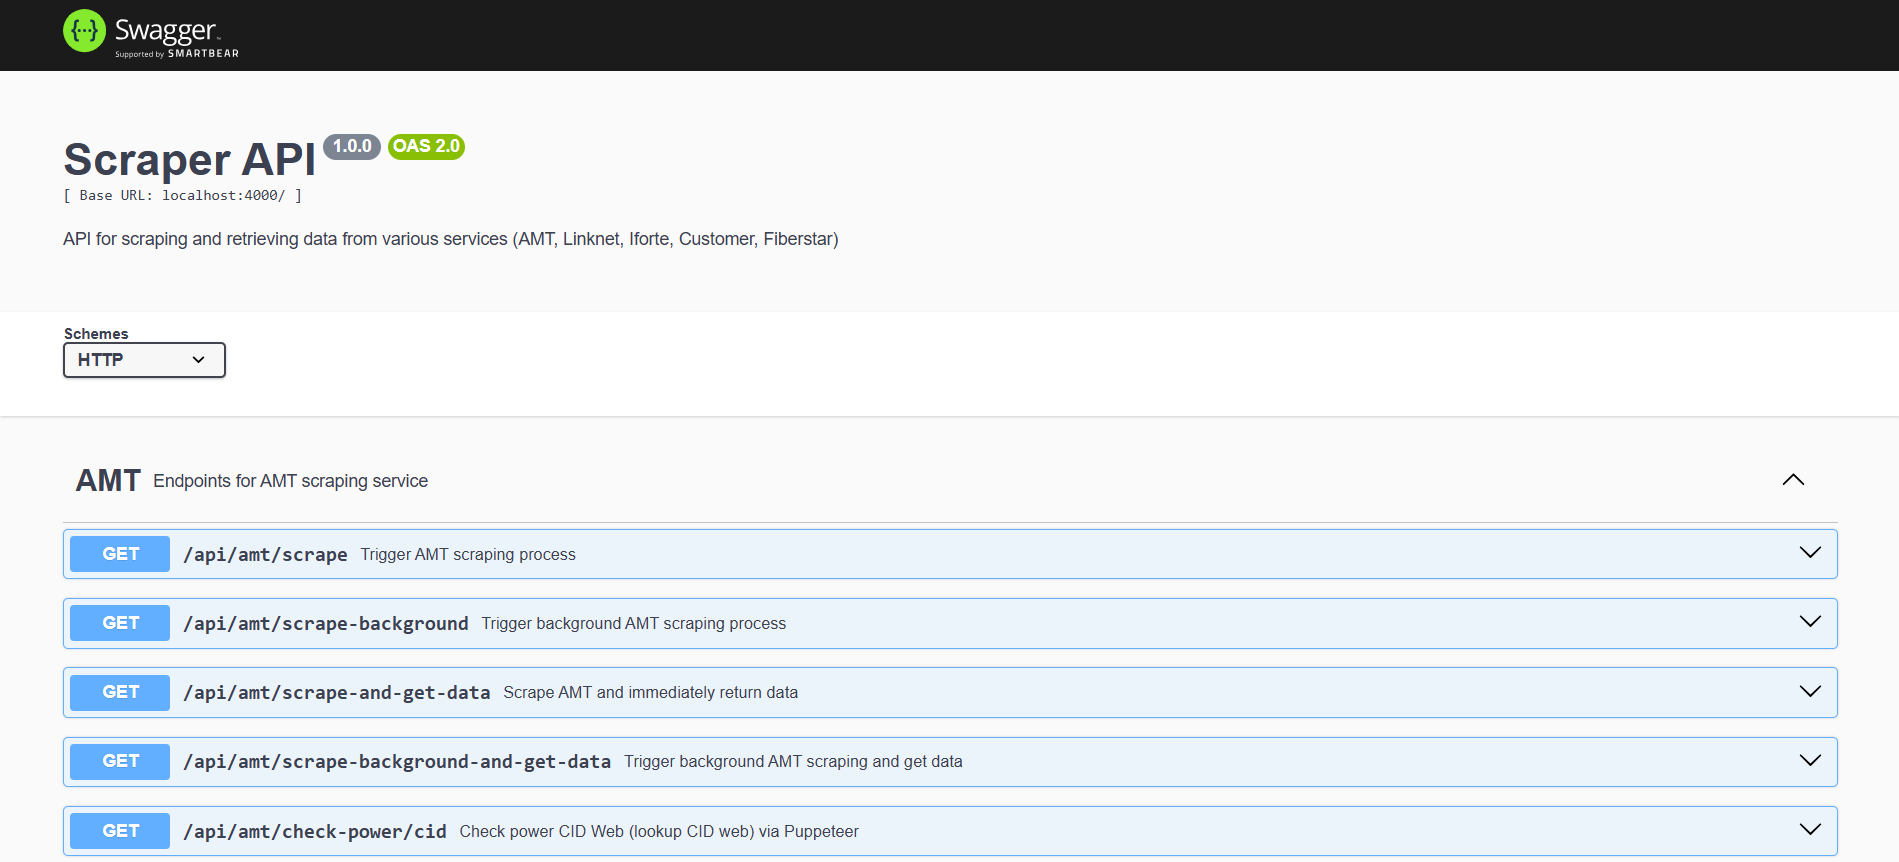
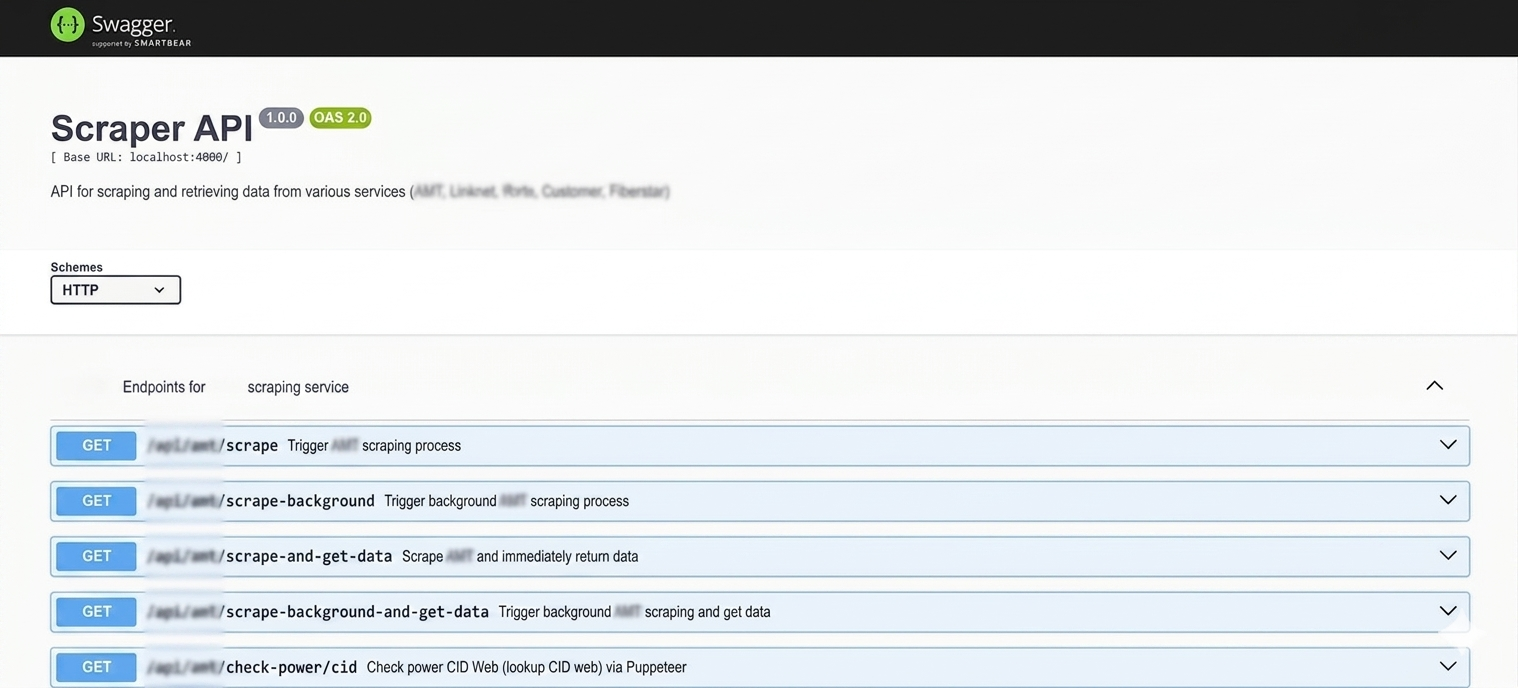
update perubahan color pada slider card dan di detail modal card

diff --git a/index.html b/index.html
@@ -783,7 +783,10 @@
         <!-- Portfolio Image Lightbox -->
         <div id="porto-image-lightbox" class="porto-image-lightbox" style="display:none;">
             <button class="porto-image-lightbox-close" id="porto-image-lightbox-close">✕</button>
+            <button class="porto-lb-nav porto-lb-prev" id="porto-lb-prev">&#8249;</button>
             <img id="porto-image-lightbox-img" src="" alt="Portfolio Full Image">
+            <button class="porto-lb-nav porto-lb-next" id="porto-lb-next">&#8250;</button>
+            <span class="porto-lb-counter" id="porto-lb-counter"></span>
         </div>
         <!-- Portfolio Image Lightbox End -->
 
@@ -856,11 +859,21 @@
     
     <!-- Portfolio Cards: Tabs, Auto-Slider, Modal -->
     <script>
+        // scroll to top on refresh
+        if (history.scrollRestoration) {
+            history.scrollRestoration = 'manual';
+        }
+        window.addEventListener('load', function () {
+            window.scrollTo(0, 0);
+        });
+        
         (function () {
             // === MODAL ===
             var modalIdx = 0;
             var modalTotal = 0;
             var modalTimer = null;
+            var lbImages = [];
+            var lbIdx = 0;
             var lightbox = document.getElementById('porto-image-lightbox');
             var lightboxImg = document.getElementById('porto-image-lightbox-img');
             var SLIDE_MS = 3000;
@@ -1011,6 +1024,7 @@
 
                 modalIdx = 0;
                 modalTotal = p.slides.length;
+                lbImages = [];
 
                 var slidesWrap = document.getElementById('porto-modal-slides');
                 slidesWrap.innerHTML = '';
@@ -1020,6 +1034,7 @@
                     if (s.image) {
                         div.classList.add('porto-slide-has-image');
                         div.innerHTML = '<img src="' + s.image + '" alt="' + (s.text || p.title) + '" class="porto-slide-image">';
+                        lbImages.push({ src: s.image, alt: s.text || p.title });
                     } else {
                         div.style.background = s.bg;
                         div.innerHTML = '<i class="bi bi-image porto-slide-icon" style="font-size:3rem;color:rgba(255,255,255,0.2);margin-bottom:0.6rem;"></i><span class="porto-slide-label" style="color:rgba(255,255,255,0.45);font-size:13px;text-align:center;padding:0 1rem;">' + s.text + '</span>';
@@ -1078,10 +1093,24 @@
                 closeLightbox();
             }
 
-            function openLightbox(src, alt) {
-                if (!src) return;
-                lightboxImg.src = src;
-                lightboxImg.alt = alt || 'Portfolio Full Image';
+            function goToLbSlide(next) {
+                if (!lbImages.length) return;
+                lbIdx = (next + lbImages.length) % lbImages.length;
+                lightboxImg.src = lbImages[lbIdx].src;
+                lightboxImg.alt = lbImages[lbIdx].alt;
+                document.getElementById('porto-lb-counter').textContent = (lbIdx + 1) + '/' + lbImages.length;
+            }
+
+            function openLightbox(startSrc) {
+                if (!lbImages.length) return;
+                var idx = lbImages.findIndex(function (img) { return img.src === startSrc; });
+                lbIdx = idx >= 0 ? idx : 0;
+                lightboxImg.src = lbImages[lbIdx].src;
+                lightboxImg.alt = lbImages[lbIdx].alt;
+                var showNav = lbImages.length > 1;
+                document.getElementById('porto-lb-prev').style.display = showNav ? 'flex' : 'none';
+                document.getElementById('porto-lb-next').style.display = showNav ? 'flex' : 'none';
+                document.getElementById('porto-lb-counter').textContent = showNav ? ((lbIdx + 1) + '/' + lbImages.length) : '';
                 lightbox.style.display = 'flex';
             }
 
@@ -1115,8 +1144,18 @@
             document.getElementById('porto-modal-slides').addEventListener('click', function (e) {
                 var target = e.target;
                 if (target.classList.contains('porto-slide-image')) {
-                    openLightbox(target.getAttribute('src'), target.getAttribute('alt'));
+                    openLightbox(target.getAttribute('src'));
                 }
+            });
+
+            document.getElementById('porto-lb-prev').addEventListener('click', function (e) {
+                e.stopPropagation();
+                goToLbSlide(lbIdx - 1);
+            });
+
+            document.getElementById('porto-lb-next').addEventListener('click', function (e) {
+                e.stopPropagation();
+                goToLbSlide(lbIdx + 1);
             });
 
             document.getElementById('porto-image-lightbox-close').addEventListener('click', function (e) {
@@ -1149,12 +1188,13 @@
             });
 
             document.addEventListener('keydown', function (e) {
-                if (e.key !== 'Escape') return;
                 if (lightbox.style.display === 'flex') {
-                    closeLightbox();
+                    if (e.key === 'Escape') { closeLightbox(); return; }
+                    if (e.key === 'ArrowLeft') { goToLbSlide(lbIdx - 1); return; }
+                    if (e.key === 'ArrowRight') { goToLbSlide(lbIdx + 1); return; }
                     return;
                 }
-                closeModal();
+                if (e.key === 'Escape') closeModal();
             });
         })();
     </script>

diff --git a/assets/css/style.css b/assets/css/style.css
@@ -787,9 +787,9 @@ footer .sosmed .btn-square {
     top: 50%;
     transform: translateY(-50%);
     z-index: 10;
-    background: rgba(255,255,255,0.12);
+    background: rgba(30, 30, 40, 0.72);
     border: none;
-    color: #fff;
+    color: #f0f0f0;
     width: 34px;
     height: 34px;
     border-radius: 50%;
@@ -804,7 +804,7 @@ footer .sosmed .btn-square {
 }
 
 .porto-modal-nav:hover {
-    background: rgba(255,255,255,0.28);
+    background: rgba(30, 30, 40, 0.92);
 }
 
 .porto-modal-prev { left: 12px; }
@@ -818,6 +818,20 @@ footer .sosmed .btn-square {
     display: flex;
     gap: 6px;
     z-index: 10;
+}
+
+.porto-dot {
+    width: 8px;
+    height: 8px;
+    border-radius: 50%;
+    background: rgba(30, 30, 40, 0.35);
+    display: inline-block;
+    transition: background 0.2s, transform 0.2s;
+}
+
+.porto-dot.active {
+    background: rgba(30, 30, 40, 0.85);
+    transform: scale(1.25);
 }
 
 .porto-modal-body {
@@ -924,6 +938,51 @@ footer .sosmed .btn-square {
 
 .porto-image-lightbox-close:hover {
     background: rgba(255,255,255,0.3);
+}
+
+.porto-lb-nav {
+    position: fixed;
+    top: 50%;
+    transform: translateY(-50%);
+    z-index: 10052;
+    background: rgba(30, 30, 40, 0.72);
+    border: none;
+    color: #f0f0f0;
+    width: 44px;
+    height: 44px;
+    border-radius: 50%;
+    font-size: 28px;
+    cursor: pointer;
+    display: flex;
+    align-items: center;
+    justify-content: center;
+    backdrop-filter: blur(4px);
+    transition: background 0.2s;
+    line-height: 1;
+    user-select: none;
+}
+
+.porto-lb-nav:hover {
+    background: rgba(30, 30, 40, 0.92);
+}
+
+.porto-lb-prev { left: 20px; }
+.porto-lb-next { right: 20px; }
+
+.porto-lb-counter {
+    position: fixed;
+    bottom: 20px;
+    left: 50%;
+    transform: translateX(-50%);
+    z-index: 10052;
+    background: rgba(30, 30, 40, 0.72);
+    color: #f0f0f0;
+    font-size: 13px;
+    font-weight: 600;
+    padding: 4px 14px;
+    border-radius: 20px;
+    backdrop-filter: blur(4px);
+    letter-spacing: 0.5px;
 }
 
 @media (max-width: 575.98px) {
